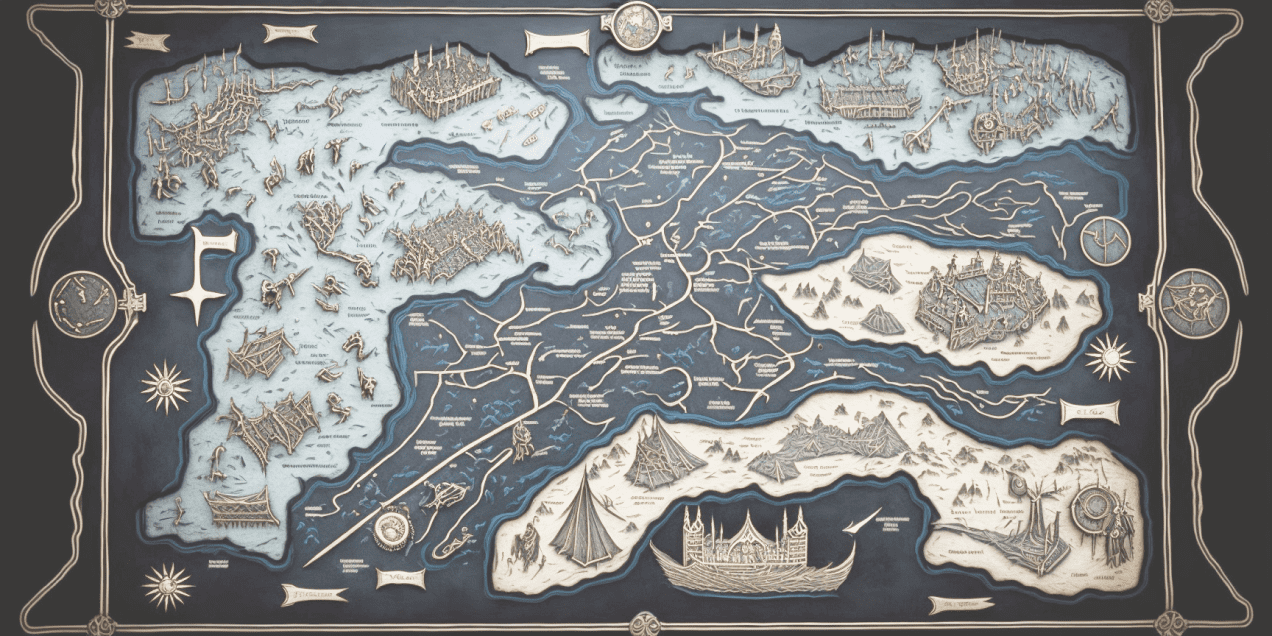
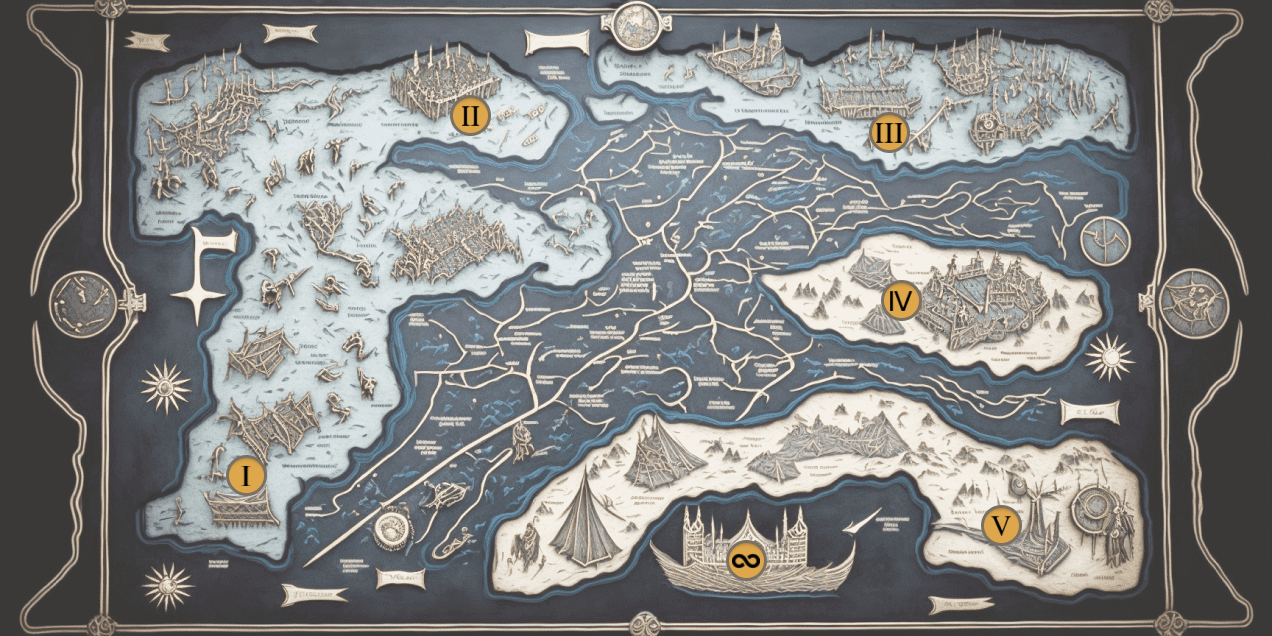
WIP2

diff --git a/packages/client/src/components/Game/GameMap/index.tsx b/packages/client/src/components/Game/GameMap/index.tsx
@@ -1,15 +1,97 @@
-import { useEffect, useRef } from 'react';
+import './index.scss';
+import { useEffect } from 'react';
+import { Link } from 'react-router-dom';
+import { fixImageMaps } from '../../../helpers/fixImageMaps';
 
 export const GameMap = () => {
-  const ref = useRef<HTMLCanvasElement>(null);
-
   useEffect(() => {
-    const canvas = ref.current;
-
-    // if (canvas) {
-
-    // }
+    window.onresize = fixImageMaps;
+    window.onload = fixImageMaps;
   }, []);
 
-  return <canvas ref={ref} />;
+  return (
+    <div className='game-map'>
+      <img className='game-map__img' src='/img/gameMapBackground.png' useMap='#levels-map' />
+      <map className='game-map__map' name='levels-map'>
+        <area className='game-map__area' alt='1' href='#map-1' coords='247,475,21' shape='circle' />
+        <area className='game-map__area' alt='2' href='#map-2' coords='470,116,20' shape='circle' />
+        <area className='game-map__area' alt='3' href='#map-3' coords='890,134,19' shape='circle' />
+        <area className='game-map__area' alt='4' href='#map-4' coords='903,301,20' shape='circle' />
+        <area
+          className='game-map__area'
+          alt='5'
+          href='#map-5'
+          coords='1001,526,18'
+          shape='circle'
+        />
+        <area
+          className='game-map__area'
+          alt='endless'
+          href='#endless'
+          coords='747,561,18'
+          shape='circle'
+        />
+      </map>
+
+      <div className='pin' id='map-1'>
+        <a href='#' className='close'>
+          x
+        </a>
+        <h2>I</h2>
+        <img src='' alt='' />
+        <p></p>
+        <Link to={'/map-1'}>Играть</Link>
+      </div>
+
+      <div className='pin' id='map-2'>
+        <a href='#' className='close'>
+          x
+        </a>
+        <h2>II</h2>
+        <img src='' alt='' />
+        <p></p>
+        <Link to={'/map-2'}>Играть</Link>
+      </div>
+
+      <div className='pin' id='map-3'>
+        <a href='#' className='close'>
+          x
+        </a>
+        <h2>III</h2>
+        <img src='' alt='' />
+        <p></p>
+        <Link to={'/map-3'}>Играть</Link>
+      </div>
+
+      <div className='pin' id='map-4'>
+        <a href='#' className='close'>
+          x
+        </a>
+        <h2>IV</h2>
+        <img src='' alt='' />
+        <p></p>
+        <Link to={'/map-4'}>Играть</Link>
+      </div>
+
+      <div className='pin' id='map-5'>
+        <a href='#' className='close'>
+          x
+        </a>
+        <h2>V</h2>
+        <img src='' alt='' />
+        <p></p>
+        <Link to={'/map-5'}>Играть</Link>
+      </div>
+
+      <div className='pin' id='endless'>
+        <a href='#' className='close'>
+          x
+        </a>
+        <h2>&#8734;</h2>
+        <img src='' alt='' />
+        <p></p>
+        <Link to={'/map-endless'}>Играть</Link>
+      </div>
+    </div>
+  );
 };
